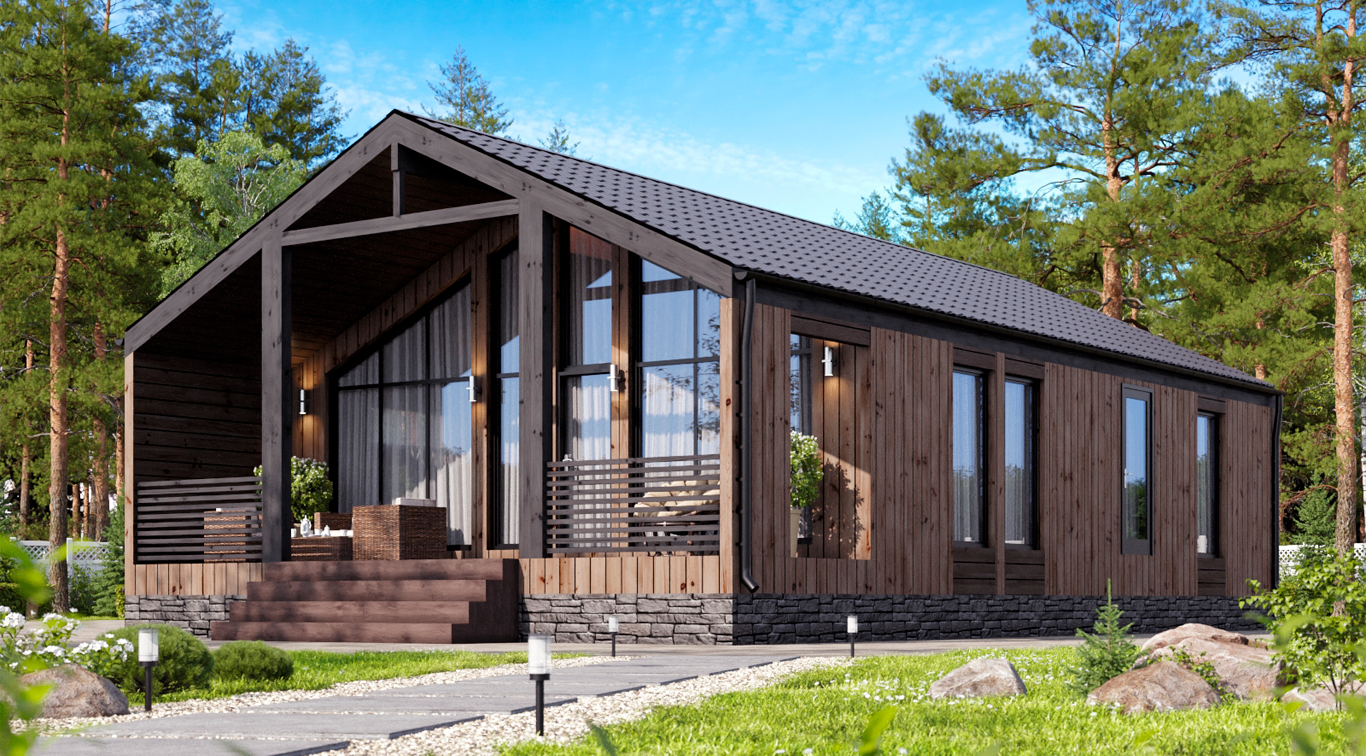
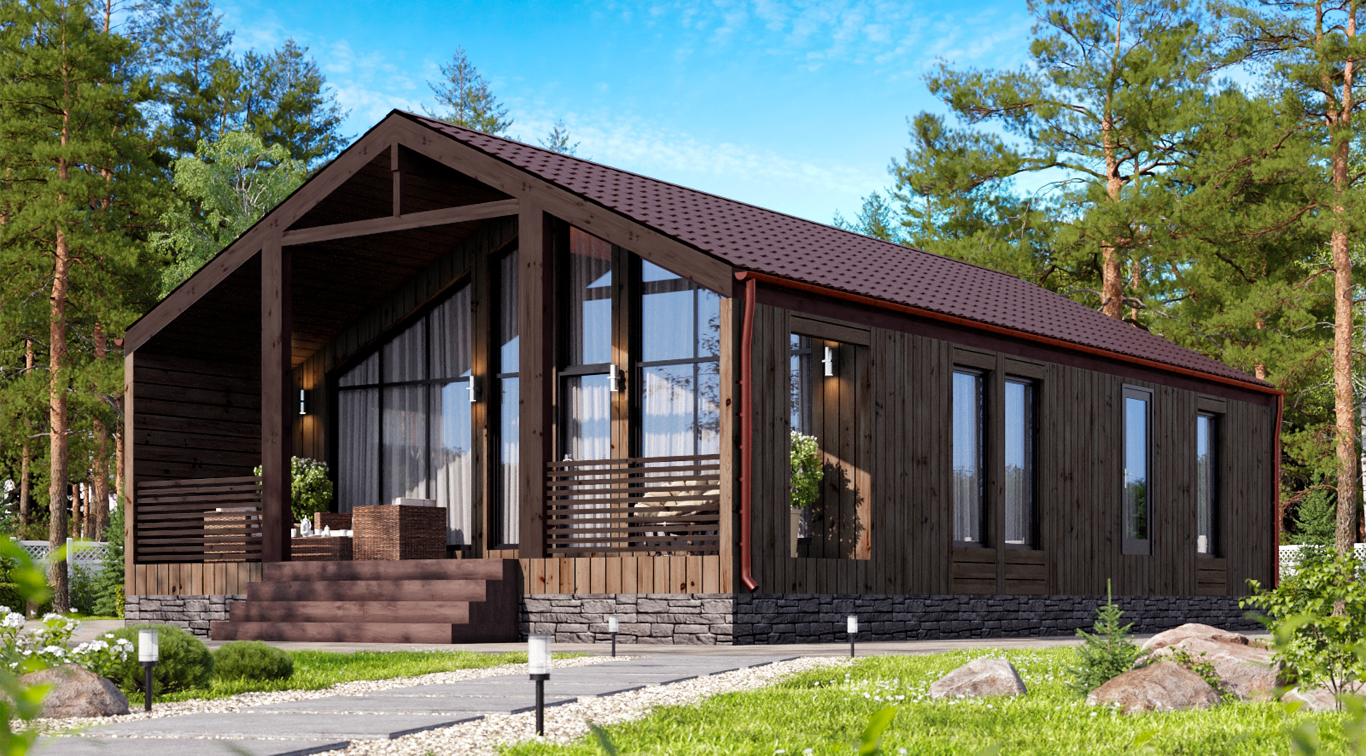
Changed default colors

Changed region(s): [[0.0922, 0.1521, 0.9531, 0.791], [0.2767, 0.3955, 0.3075, 0.4259]]

diff --git a/src/lib/controlls_collection.js b/src/lib/controlls_collection.js
@@ -224,16 +224,16 @@ export const controlls = [
 		title: 'крыша',
 		colors: [
 			{
+				name: 'ral8017',
+				hex: '#593f45'
+			},
+			{
 				name: 'ral7024',
 				hex: '#999da8'
 			},
 			{
 				name: 'ral5005',
 				hex: '#297dad'
-			},
-			{
-				name: 'ral8017',
-				hex: '#593f45'
 			},
 			{
 				name: 'ral3005',
@@ -254,15 +254,15 @@ export const controlls = [
 		title: 'окна',
 		colors: [
 			{
+				name: 'brown',
+				title: 'brown',
+				hex: '#41342c'
+			},
+			{
 				name: 'white',
 				color: '#000',
 				hex: '#fff'
 			},
-			{
-				name: 'brown',
-				title: 'brown',
-				hex: '#41342c'
-			}
 		]
 	},
 	{
@@ -270,13 +270,13 @@ export const controlls = [
 		title: 'доборы',
 		colors: [
 			{
+				name: 'brown',
+				hex: '#41342c'
+			},
+			{
 				name: 'white',
 				color: '#000',
 				hex: '#fff'
-			},
-			{
-				name: 'brown',
-				hex: '#41342c'
 			},
 			{
 				name: 'grey',
@@ -289,12 +289,12 @@ export const controlls = [
 		title: 'сливы',
 		colors: [
 			{
-				name: 'grey',
-				hex: '#333333'
-			},
-			{
 				name: 'red',
 				hex: '#97433c'
+			},
+			{
+				name: 'grey',
+				hex: '#333333'
 			},
 			{
 				name: 'brown',
